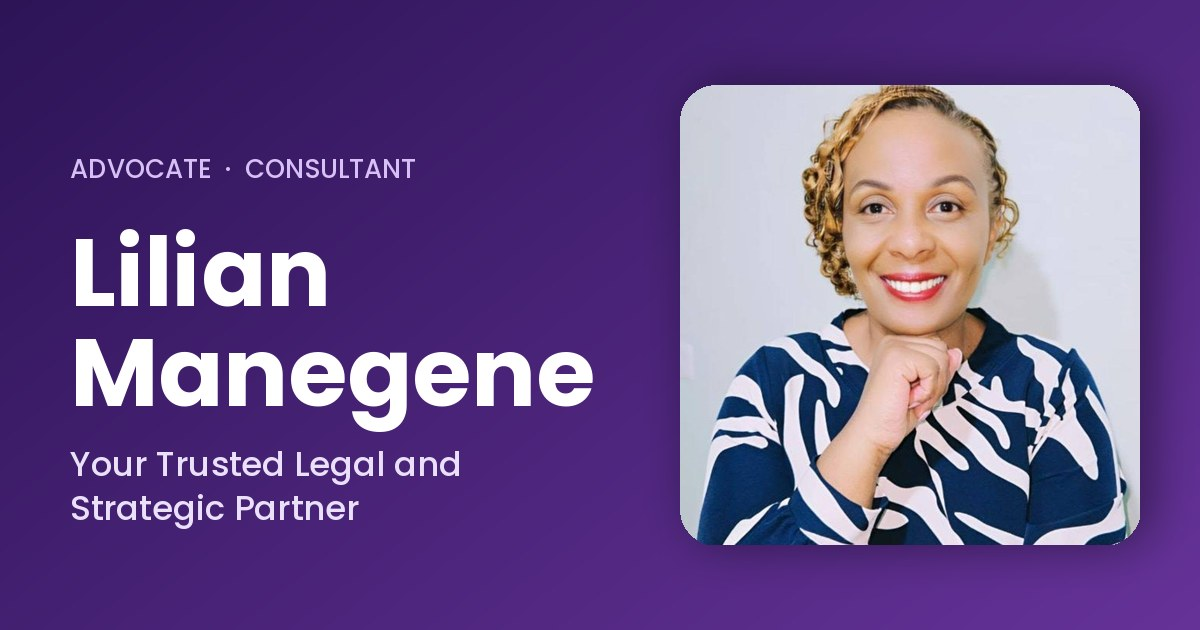
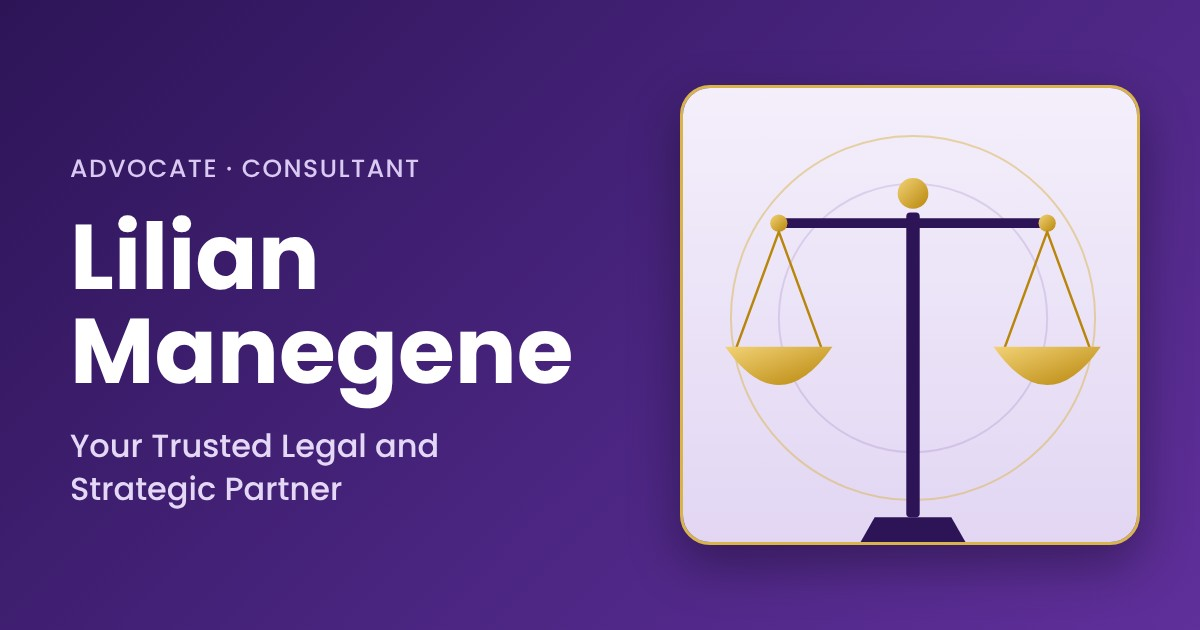
Replace Lilian's photos with legal placeholder designs
Hero portrait and About photo now use PhotoSlot, which shows an SVG
placeholder (scales of justice / courthouse) unless a filename is set in
src/data/photos.js. Originals moved to archive/lilian-photos/ (outside the
build). Share image replaced with a photo-free card. README explains how to
restore the photos.

Claude-Session: https://claude.ai/code/session_01Fhr6Rn3nJzeSMBmFwdX43t

Changed region(s): [[0.555, 0.1206, 0.9558, 0.8746], [0.0617, 0.3317, 0.4933, 0.8444], [0.0617, 0.2413, 0.37, 0.3016]]

diff --git a/src/components/PhotoSlot/PhotoSlot.jsx b/src/components/PhotoSlot/PhotoSlot.jsx
@@ -1,0 +1,115 @@
+import { findImage } from "../../utils/resolveImage";
+
+// Shows the photo when `source` points at a real image, otherwise a
+// legal-themed placeholder design. Set the sources in src/data/photos.js.
+//
+//   variant "portrait" -> tall, for the hero arch (4:5)
+//   variant "about"    -> landscape (4:3)
+
+const GOLD = "#d9b44a";
+const GOLD_DK = "#b8860b";
+const PURPLE = "#663399";
+const DEEP = "#2d1457";
+
+function Portrait() {
+  return (
+    <svg className="photo-ph" viewBox="0 0 480 600" preserveAspectRatio="xMidYMid slice" role="img" aria-label="Scales of justice illustration">
+      <defs>
+        <linearGradient id="phpBg" x1="0" y1="0" x2="0" y2="1">
+          <stop offset="0" stopColor="#f4effb" />
+          <stop offset="1" stopColor="#e2d6f3" />
+        </linearGradient>
+        <linearGradient id="phpGold" x1="0" y1="0" x2="1" y2="1">
+          <stop offset="0" stopColor="#f2d276" />
+          <stop offset="1" stopColor={GOLD_DK} />
+        </linearGradient>
+      </defs>
+      <rect width="480" height="600" fill="url(#phpBg)" />
+      <circle cx="240" cy="270" r="190" fill="none" stroke={GOLD} strokeOpacity=".45" strokeWidth="2" />
+      <circle cx="240" cy="270" r="140" fill="none" stroke={PURPLE} strokeOpacity=".15" strokeWidth="2" />
+      {/* columns */}
+      <g fill={PURPLE} fillOpacity=".1">
+        <rect x="40" y="250" width="40" height="300" rx="4" />
+        <rect x="400" y="250" width="40" height="300" rx="4" />
+        <rect x="30" y="236" width="60" height="16" rx="3" />
+        <rect x="390" y="236" width="60" height="16" rx="3" />
+      </g>
+      {/* scales */}
+      <g>
+        <rect x="233" y="190" width="14" height="318" rx="4" fill={DEEP} />
+        <circle cx="240" cy="170" r="16" fill="url(#phpGold)" />
+        <rect x="100" y="196" width="280" height="10" rx="5" fill={DEEP} />
+        <circle cx="100" cy="201" r="9" fill="url(#phpGold)" />
+        <circle cx="380" cy="201" r="9" fill="url(#phpGold)" />
+        <g stroke={GOLD_DK} strokeWidth="2.5" strokeLinecap="round">
+          <path d="M100 210 L56 330 M100 210 L144 330" />
+          <path d="M380 210 L336 330 M380 210 L424 330" />
+        </g>
+        <path d="M44 330 H156 Q100 410 44 330 Z" fill="url(#phpGold)" />
+        <path d="M324 330 H436 Q380 410 324 330 Z" fill="url(#phpGold)" />
+        <path d="M200 508 H280 L296 536 H184 Z" fill={DEEP} />
+        <rect x="160" y="536" width="160" height="16" rx="4" fill={PURPLE} />
+        <rect x="136" y="552" width="208" height="14" rx="4" fill={DEEP} />
+      </g>
+      <text x="240" y="92" textAnchor="middle" fontFamily="Georgia, serif" fontSize="22" letterSpacing="7" fill={PURPLE} fillOpacity=".7">LAW · JUSTICE</text>
+    </svg>
+  );
+}
+
+function About() {
+  return (
+    <svg className="photo-ph" viewBox="0 0 400 300" preserveAspectRatio="xMidYMid slice" role="img" aria-label="Courthouse illustration">
+      <defs>
+        <linearGradient id="phaBg" x1="0" y1="0" x2="1" y2="1">
+          <stop offset="0" stopColor="#efe9f8" />
+          <stop offset="1" stopColor="#d9cbee" />
+        </linearGradient>
+        <linearGradient id="phaGold" x1="0" y1="0" x2="1" y2="1">
+          <stop offset="0" stopColor="#f2d276" />
+          <stop offset="1" stopColor={GOLD_DK} />
+        </linearGradient>
+      </defs>
+      <rect width="400" height="300" fill="url(#phaBg)" />
+      <circle cx="200" cy="120" r="96" fill="none" stroke={GOLD} strokeOpacity=".5" strokeWidth="2" />
+      {/* pediment */}
+      <polygon points="60,112 200,36 340,112" fill={DEEP} />
+      <polygon points="92,106 200,48 308,106" fill="none" stroke="url(#phaGold)" strokeWidth="3" />
+      <circle cx="200" cy="84" r="13" fill="url(#phaGold)" />
+      {/* entablature */}
+      <rect x="56" y="112" width="288" height="14" fill={PURPLE} />
+      {/* columns */}
+      <g fill="#ffffff" stroke={PURPLE} strokeWidth="2">
+        {[84, 138, 192, 246, 300].map((x) => (
+          <g key={x}>
+            <rect x={x} y="132" width="22" height="104" rx="2" />
+            <rect x={x - 4} y="126" width="30" height="8" rx="2" fill={PURPLE} stroke="none" />
+            <rect x={x - 4} y="234" width="30" height="8" rx="2" fill={PURPLE} stroke="none" />
+          </g>
+        ))}
+      </g>
+      {/* steps */}
+      <rect x="64" y="242" width="272" height="12" fill={PURPLE} />
+      <rect x="48" y="254" width="304" height="12" fill={DEEP} />
+      <rect x="32" y="266" width="336" height="14" fill={PURPLE} fillOpacity=".85" />
+    </svg>
+  );
+}
+
+function PhotoSlot({ source, alt, variant = "portrait", width, height, priority = false }) {
+  const url = findImage(source);
+  if (url) {
+    return (
+      <img
+        src={url}
+        alt={alt}
+        width={width}
+        height={height}
+        loading={priority ? undefined : "lazy"}
+        fetchPriority={priority ? "high" : undefined}
+      />
+    );
+  }
+  return variant === "about" ? <About /> : <Portrait />;
+}
+
+export default PhotoSlot;

diff --git a/src/styles.css b/src/styles.css
@@ -63,6 +63,7 @@ button { font: inherit; }
 .hero-r::before { content: ""; position: absolute; width: 760px; height: 760px; border: 1.5px solid rgba(217, 180, 74, 0.35); border-radius: 50%; left: 50%; top: 52%; transform: translate(-50%, -50%); }
 .hero-r::after { content: ""; position: absolute; width: 520px; height: 520px; border: 1.5px solid rgba(217, 180, 74, 0.2); border-radius: 50%; left: 50%; top: 52%; transform: translate(-50%, -50%); }
 .arch { position: relative; z-index: 1; width: min(78%, 480px); aspect-ratio: 4 / 5; border-radius: 999px 999px 0 0; overflow: hidden; border: 3px solid var(--gold2); border-bottom: 0; background: var(--lav3); }
+.arch svg { width: 100%; height: 100%; display: block; }
 .arch img { width: 100%; height: 100%; object-fit: cover; object-position: 50% 12%; }
 .seal { position: absolute; z-index: 2; left: 9%; bottom: 14%; width: 148px; height: 148px; border-radius: 50%; background: linear-gradient(135deg, var(--gold3), var(--gold2) 60%, var(--gold)); color: var(--deep); display: flex; flex-direction: column; align-items: center; justify-content: center; text-align: center; box-shadow: 0 18px 40px rgba(0, 0, 0, 0.35); animation: float 6s ease-in-out infinite; }
 .seal b { font: 400 64px/0.8 var(--serif); height: 36px; }
@@ -78,6 +79,7 @@ button { font: inherit; }
 
 /* ===== About ===== */
 .who { display: grid; grid-template-columns: 0.95fr 1.05fr; gap: 72px; align-items: center; }
+.who-img svg { width: 100%; aspect-ratio: 4 / 3; border-radius: 18px; box-shadow: 22px 22px 0 var(--lav3); }
 .who-img img { width: 100%; aspect-ratio: 4 / 3; object-fit: cover; object-position: 60% 20%; border-radius: 18px; box-shadow: 22px 22px 0 var(--lav3); }
 .about h2 { font-size: clamp(44px, 5.4vw, 76px); line-height: 1; color: var(--deep); }
 .who-tx .lead { font-family: var(--serif); font-size: clamp(18px, 1.5vw, 20px); line-height: 1.6; margin-top: 18px; color: var(--ink); }
@@ -175,7 +177,7 @@ mark { background: none; color: var(--purple); font-style: italic; }
   .seal span { font-size: 10px; max-width: 70px; }
   .stats { padding: 84px 24px; }
   .who { grid-template-columns: 1fr; gap: 44px; }
-  .who-img img { box-shadow: 12px 12px 0 var(--lav3); }
+  .who-img img, .who-img svg { box-shadow: 12px 12px 0 var(--lav3); }
   .ledger-wrap, .roles-wrap { margin-top: 84px; }
   .row { grid-template-columns: 1fr 64px; gap: 6px 14px; padding: 18px 4px; }
   .row-p { grid-column: 1; }

diff --git a/src/sections/About.jsx b/src/sections/About.jsx
@@ -1,22 +1,14 @@
 import { POSITIONS_HELD, OTHER_POSITIONS } from "../data/profile";
 import OrgLogo from "../components/OrgLogo/OrgLogo";
-import { PLACEHOLDER } from "../utils/resolveImage";
-import profile from "../assets/images/lilly.jpg";
+import PhotoSlot from "../components/PhotoSlot/PhotoSlot";
+import { PHOTOS } from "../data/photos";
 
 function About() {
   return (
     <section className="sec about" id="about" aria-label="About">
       <div className="who">
         <div className="who-img rv">
-          <img
-            src={profile}
-            alt="Lilian Manegene"
-            loading="lazy"
-            onError={(e) => {
-              e.currentTarget.onerror = null;
-              e.currentTarget.src = PLACEHOLDER;
-            }}
-          />
+          <PhotoSlot source={PHOTOS.about} variant="about" alt="Lilian Manegene" />
         </div>
         <div className="who-tx rv">
           <p className="eyebrow">About</p>

diff --git a/src/data/photos.js b/src/data/photos.js
@@ -1,0 +1,17 @@
+// Lilian's photos. They are switched OFF: both values are empty, so the site
+// shows the legal placeholder designs instead.
+//
+// To bring a photo back (hard-code it here):
+//   1. Copy the file from archive/lilian-photos/ into src/assets/images/
+//   2. Put its filename below, e.g.  portrait: "lilymain.jpg"
+//
+// Leave a value as "" to keep the placeholder for that spot.
+// (A link such as "https://..." or a public path such as "/images/me.jpg" also works.)
+//
+// The share-card image used when the link is posted on WhatsApp, LinkedIn, etc.
+// is separate: see "Share image" in README.md.
+
+export const PHOTOS = {
+  portrait: "", // hero (top of the page), tall arch   ->  archive file: lilymain.jpg
+  about: "", //    About section, landscape 4:3        ->  archive file: lilly.jpg
+};

diff --git a/src/sections/Hero.jsx b/src/sections/Hero.jsx
@@ -1,5 +1,6 @@
 import { CONTACT, PROFILE, ROLES } from "../data/profile";
-import portrait from "../assets/images/lilymain.jpg";
+import PhotoSlot from "../components/PhotoSlot/PhotoSlot";
+import { PHOTOS } from "../data/photos";
 
 function Hero() {
   const [first, ...rest] = PROFILE.name.split(" ");
@@ -32,12 +33,13 @@ function Hero() {
 
         <div className="hero-r">
           <div className="arch">
-            <img
-              src={portrait}
+            <PhotoSlot
+              source={PHOTOS.portrait}
+              variant="portrait"
               alt="Portrait of Lilian Manegene, advocate and consultant"
               width="1080"
               height="1009"
-              fetchPriority="high"
+              priority
             />
           </div>
         </div>

diff --git a/README.md b/README.md
@@ -14,12 +14,31 @@ npm run build      # production build into dist/
 | --- | --- |
 | Name, hero text, stats, roles, positions held, other roles | `src/data/profile.js` |
 | Career Highlights: Acts, regulatory bodies, clients, cases (and their logos) | `src/data/projects.js` |
+| Lilian's photos (hero portrait, About photo): currently OFF, showing placeholder designs | `src/data/photos.js` |
 | Footer email, phone, location and social links | `CONTACT` and `SOCIALS` in `src/data/profile.js` |
 | Page title, description, share image, search-engine details | `src/seo/site.js` |
 | Colours and fonts | `:root` at the top of `src/styles.css` |
 
 Images go in `src/assets/images/` (logos can live in a `logos/` subfolder, and
 `logo` in `projects.js` can also be a link).
+
+## Bringing Lilian's photos back
+
+The photos are switched off. The site shows legal placeholder designs (scales of justice in the hero, a courthouse in About). The original files are kept in `archive/lilian-photos/`, which is not part of the website build.
+
+1. Copy `lilymain.jpg` and/or `lilly.jpg` from `archive/lilian-photos/` into `src/assets/images/`.
+2. In `src/data/photos.js` set the filename:
+   ```js
+   export const PHOTOS = {
+     portrait: "lilymain.jpg",
+     about: "lilly.jpg",
+   };
+   ```
+   Leave a value as `""` to keep the placeholder for that spot.
+
+**Share image** (the preview card shown when the link is posted on WhatsApp, LinkedIn, etc.): `public/og-image.jpg` is now a placeholder card without a photo. To bring the photo version back, copy `archive/lilian-photos/og-image.jpg` over `public/og-image.jpg`.
+
+Note: the photos still exist in the repository's git history. If they must be removed completely, the history has to be rewritten.
 
 ## Before you deploy
 
